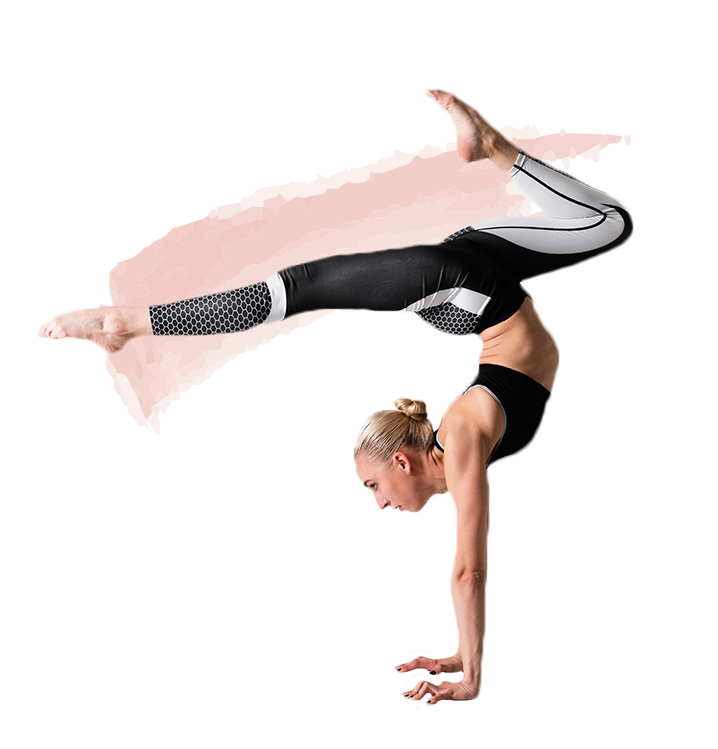
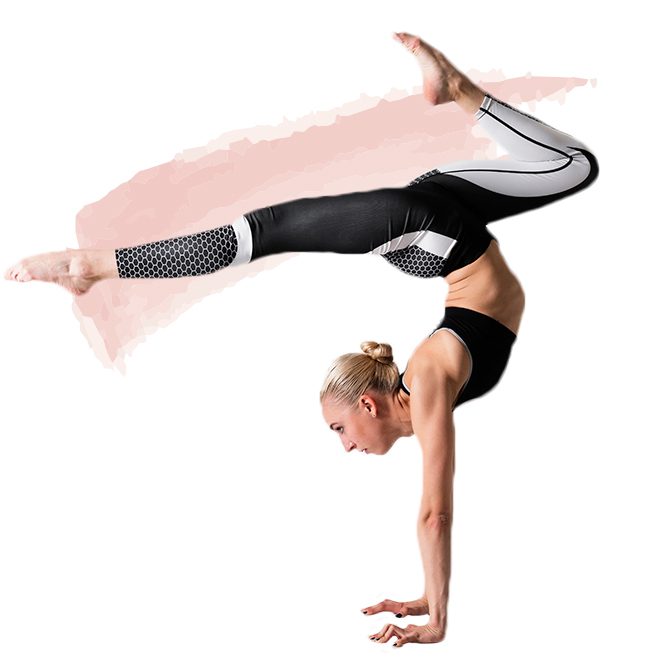
updated

Changed region(s): [[0.0, 0.0305, 0.9202, 1.0]]

diff --git a/index.html b/index.html
@@ -10,25 +10,27 @@
 </head>
 <body>
     <!-- Header Section -->
-    <header>
-        <div class="header">
-                
-            <nav>
-                <h2>Yoga <span>Portfolio</span></h2>
-                <ul>
-                    <li><a href="#home">home</a></li>
-                    <li><a href="#about">about</a></li>
-                    <li><a href="#blog">blog</a></li>
-                    <li><a href="#training">Training</a></li>
-                    <li><a href="#event">Event</a></li>
-                    <li><a href="#shop">Shop</a></li>
-                    <li><a href="#contact">Contact</a></li>
-                </ul>
-            </nav>
-        </div>
-    </header>
+    <section id="header">
+        <header>
+            <div class="header">
+                    
+                <nav>
+                    <h2>Yoga <span>Portfolio</span></h2>
+                    <ul>
+                        <li><a href="#home">home</a></li>
+                        <li><a href="#about">about</a></li>
+                        <li><a href="#blog">blog</a></li>
+                        <li><a href="#training">Training</a></li>
+                        <li><a href="#event">Event</a></li>
+                        <li><a href="#shop">Shop</a></li>
+                        <li><a href="#contact">Contact</a></li>
+                    </ul>
+                </nav>
+            </div>
+        </header>
+    </section>
 
-    <!--  -->
+    <!--  Home Section -->
 
     <section id="home">
         <div class="body1">
@@ -49,5 +51,8 @@
     </section>
 
     
+    <div class="box">
+
+    </div>
 </body>
 </html>

diff --git a/style.css b/style.css
@@ -52,27 +52,25 @@ nav ul li a:hover {
 /* ===========Home========== */
 .body1 {
     width: 100%;
-    height: 100vh;
-    padding: 250px;
-    background-image: url(images/header-bg.jpg);
-    background-repeat: no-repeat;
-    background-position: center;
-    background-size: cover;
+    height: auto;
+    padding: 100px 0px;
+    position: absolute;
+    background: #191919;
     display: flex;
     align-items: center;
     justify-content: space-around;
-}
-.body1 .img {
-    height: auto;
-    width: 50%;
+    margin-bottom: 50px;
 }
 .body1 .img img {
-    width: 100%;
+    width: 450px;
     height: auto;
+    margin-left: 10%;
+    margin-top: 10%;
 }
 .body1 .text1 {
     width: 50%;
     padding: 20px;
+    color: #fff;
 }
 .body1 .text1 h1 {
     font-size: 50px;
@@ -97,4 +95,12 @@ nav ul li a:hover {
 .btn:hover {
     background-color: #000;
     border: 2px solid #f9004d;
+}
+
+
+/* =======About========== */
+.box {
+    background-color: #f9004d;
+    width: 200px;
+    height: 100px;
 }
